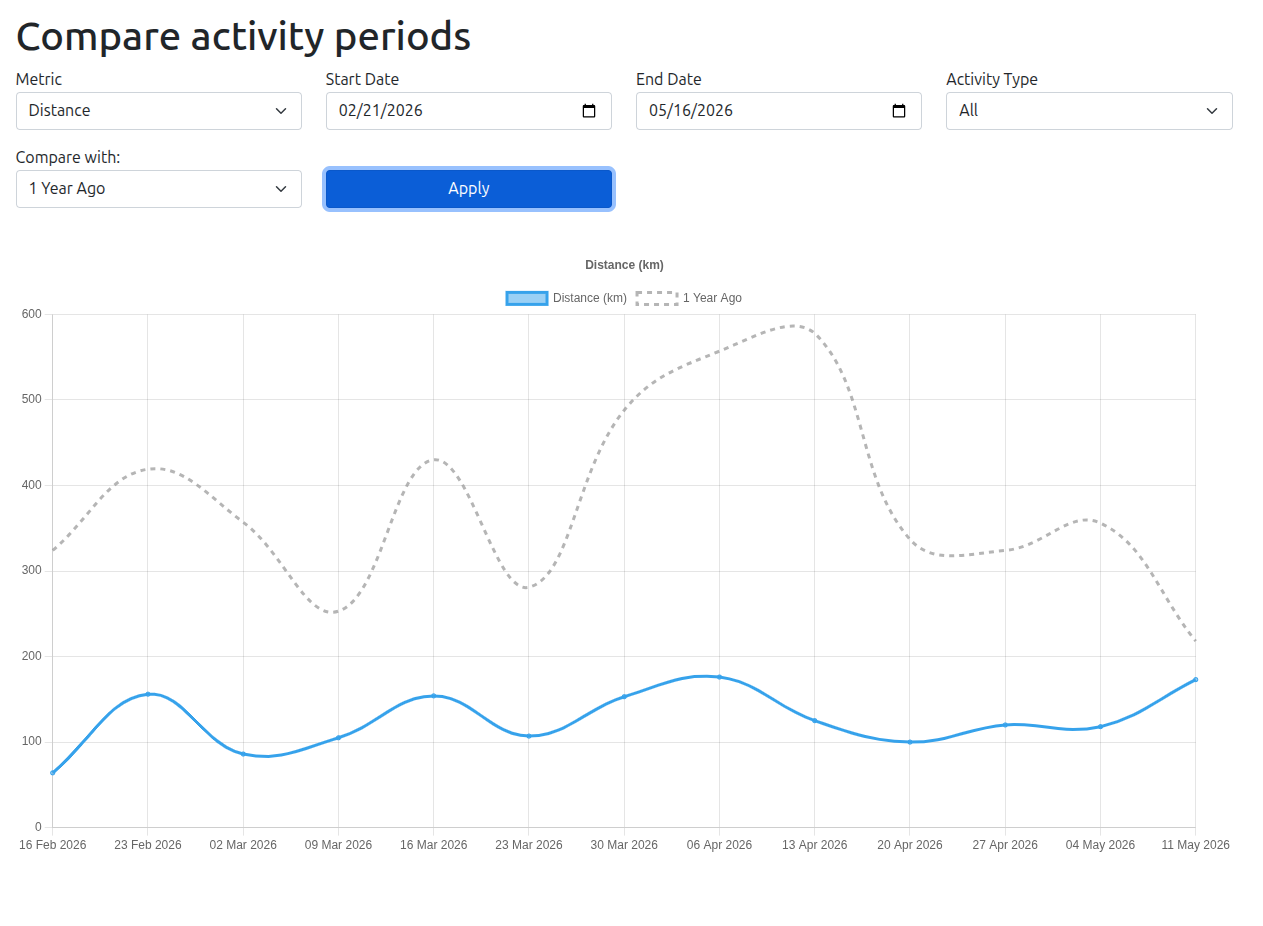
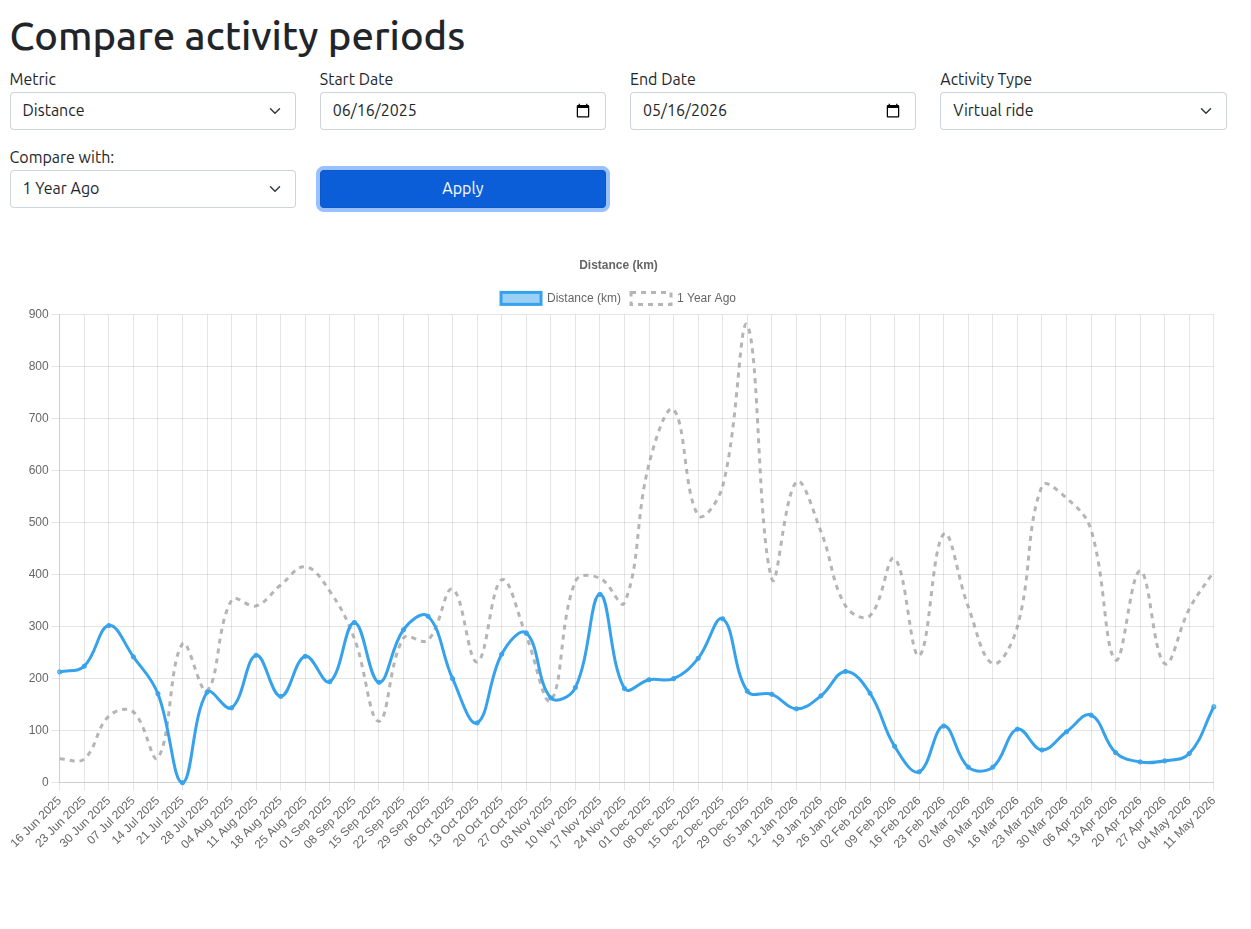
fill in gaps where no activity took place

diff --git a/src/main/resources/templates/activity/compare.html b/src/main/resources/templates/activity/compare.html
@@ -116,19 +116,11 @@
         }
 
         function addDatasetToChart(label, data, color) {
-            const primaryCount = currentChart.data.labels.length;
-            let adjustedData = data;
-
-            if (data.length < primaryCount) {
-                // If comparison data is shorter, pad the START with nulls
-                // (assuming the user wants to see the most recent weeks aligned)
-                const padding = new Array(primaryCount - data.length).fill(null);
-                adjustedData = padding.concat(data);
-            }
+            if (!currentChart) return;
 
             const newDataset = {
                 label: label,
-                data: adjustedData,
+                data: data,
                 borderColor: color,
                 backgroundColor: 'transparent',
                 borderDash: [5, 5],

diff --git a/src/main/resources/static/js/chart.js b/src/main/resources/static/js/chart.js
@@ -65,10 +65,10 @@ function renderLineChart(labels, values, valueConverter, label) {
     return new Chart(canvas, {
         type: 'line',
         data: {
-            labels: labels.reverse(),
+            labels: labels,
             datasets: [{
                 label: label,
-                data: convertedValues.reverse(),
+                data: convertedValues,
                 tension: 0.4,
                 pointRadius: 2,
                 hitRadius: 10

diff --git a/src/main/java/wood/mike/sbstravaapi/services/activity/StatisticsService.java b/src/main/java/wood/mike/sbstravaapi/services/activity/StatisticsService.java
@@ -8,8 +8,11 @@ import wood.mike.sbstravaapi.repositories.activity.WeeklyStatistic;
 import java.time.LocalDate;
 import java.time.LocalDateTime;
 import java.time.format.DateTimeFormatter;
+import java.time.temporal.IsoFields;
+import java.util.ArrayList;
 import java.util.List;
 import java.util.Map;
+import java.util.stream.Collectors;
 
 @Service
 public class StatisticsService {
@@ -19,12 +22,48 @@ public class StatisticsService {
     public StatisticsService(ActivityRepository activityRepository) {
         this.activityRepository = activityRepository;
     }
-
     public Map<String, List<?>> getWeeklyStatistics(String reportType, Athlete athlete, LocalDate from, LocalDate to, String activityType) {
-        LocalDateTime start = (from != null) ? from.atStartOfDay() : null;
-        LocalDateTime end = (to != null) ? to.atTime(23, 59, 59) : null;
+        if (from == null || to == null) {
+            return getLegacyAllTimeStats(reportType, athlete, activityType);
+        }
 
-        List<WeeklyStatistic> weeklyStatistics = fetchWeeklyStats(reportType, athlete, start, end, activityType).reversed();
+        LocalDateTime start = from.atStartOfDay();
+        LocalDateTime end = to.atTime(23, 59, 59);
+
+        List<WeeklyStatistic> dbStats = fetchWeeklyStats(reportType, athlete, start, end, activityType);
+
+        Map<String, Number> dbMap = dbStats.stream().collect(Collectors.toMap(
+                stat -> stat.getYear() + "-" + stat.getWeek(),
+                WeeklyStatistic::getTotal,
+                (existing, replacement) -> existing
+        ));
+
+        List<String> labels = new ArrayList<>();
+        List<Number> values = new ArrayList<>();
+
+        // we have to massage the data to fill in gaps where there are no values for a given week
+        LocalDate currentWeekStart = from;
+        while (!currentWeekStart.isAfter(to)) {
+            int year = currentWeekStart.get(IsoFields.WEEK_BASED_YEAR);
+            int week = currentWeekStart.get(IsoFields.WEEK_OF_WEEK_BASED_YEAR);
+
+            String key = year + "-" + week;
+
+            labels.add(currentWeekStart.format(DateTimeFormatter.ofPattern("dd MMM yyyy")));
+            values.add(dbMap.getOrDefault(key, 0));     // if there was no activity this week supply zero
+
+            currentWeekStart = currentWeekStart.plusWeeks(1);
+        }
+
+        return Map.of(
+                "labels", labels,
+                "values", values
+        );
+    }
+
+    public Map<String, List<?>> getLegacyAllTimeStats(String reportType, Athlete athlete, String activityType) {
+
+        List<WeeklyStatistic> weeklyStatistics = fetchWeeklyStats(reportType, athlete, null, null, activityType).reversed();
 
         List<String> labels = weeklyStatistics.stream()
                 .map(stat -> stat.getWeekStartDate().format(DateTimeFormatter.ofPattern("dd MMM yyyy")))
@@ -39,6 +78,8 @@ public class StatisticsService {
                 "values", values
         );
     }
+
+
 
     private List<WeeklyStatistic> fetchWeeklyStats(String reportType, Athlete athlete, LocalDateTime from, LocalDateTime to, String activityType) {
         return switch (reportType) {